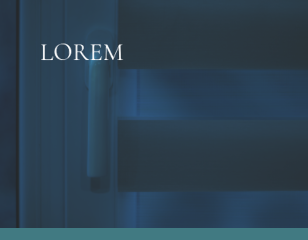
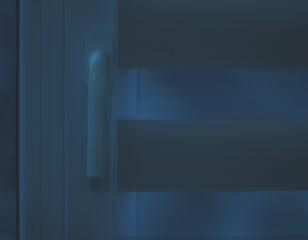
Заменены изображения в секции - Популярное. Добавлены заголовки

Changed region(s): [[0.0, 0.9333, 1.0, 1.0], [0.1169, 0.175, 0.4091, 0.2625]]

diff --git a/index.html b/index.html
@@ -149,9 +149,9 @@
                             </a>
                         </li>
                         <li class="menu-section-links__item-search">
-                           <div class="menu-section-links__item-search-block">
-                            <input type="text" class="menu-section-links-search-line" placeholder="Поиск">
-                           </div>
+                            <div class="menu-section-links__item-search-block">
+                                <input type="text" class="menu-section-links-search-line" placeholder="Поиск">
+                            </div>
                         </li>
                     </ul>
                     <div class="menu-section-about">
@@ -173,10 +173,18 @@
                     <h2 class="popular-section-title">Популярное</h2>
                     <div class="popular-section-left">
                         <div class="popular-section-left-img-blocks">
-                            <div class="popular-section-left-img-blocks__item_one"></div>
-                            <div class="popular-section-left-img-blocks__item_two"></div>
-                            <div class="popular-section-left-img-blocks__item_three"></div>
-                            <div class="popular-section-left-img-blocks__item_four"></div>
+                            <div class="popular-section-left-img-blocks__item_one">
+                                <h2 class="popular-section-left-img-blocks_title"><span>Москитные</span> сетки</h2>
+                            </div>
+                            <div class="popular-section-left-img-blocks__item_two">
+                                <h2 class="popular-section-left-img-blocks_title ">lorem</h2>
+                            </div>
+                            <div class="popular-section-left-img-blocks__item_three">
+                                <h2 class="popular-section-left-img-blocks_title popular-section-left-img-blocks_title_italic">lorem</h2>
+                            </div>
+                            <div class="popular-section-left-img-blocks__item_four">
+                                <h2 class="popular-section-left-img-blocks_title popular-section-left-img-blocks_title_white">lorem</h2>
+                            </div>
                         </div>
                     </div>
                     <div class="popular-section-right"></div>

diff --git a/css/popular-section.css b/css/popular-section.css
@@ -82,3 +82,23 @@
     max-width: 308px;
     width: 100%;
 }
+
+.popular-section-left-img-blocks_title {
+    padding-top: 40px;
+    padding-left: 40px;
+    text-transform: uppercase;
+    color: rgb(5, 46, 76);
+    font-family: "Cormorant Infant";
+    font-size: 25px;
+    font-weight: 400;
+}
+
+.popular-section-left-img-blocks_title_white{
+    color: rgb(255, 255, 255);
+}
+
+.popular-section-left-img-blocks_title >span,
+.popular-section-left-img-blocks_title_italic{
+    font-weight: 700;
+    font-style: italic;
+}

diff --git a/css/menu-section.css b/css/menu-section.css
@@ -3,7 +3,7 @@
     left: 72px;
     top: 0;
     padding: 31px 24px 29px 24px;
-    background: rgba(255, 255, 255, 0.9);
+    background: rgba(242, 246, 247, 0.9);
     z-index: 255;
     max-width: 224px;
     width: 100%;
@@ -23,8 +23,8 @@
 }
 
 .visible {
-    /* transform: translateX(-72px); */
-    transform: translateX(0);
+    transform: translateX(-72px);
+    /* transform: translateX(0); */
 }
 
 .menu-section-title {
